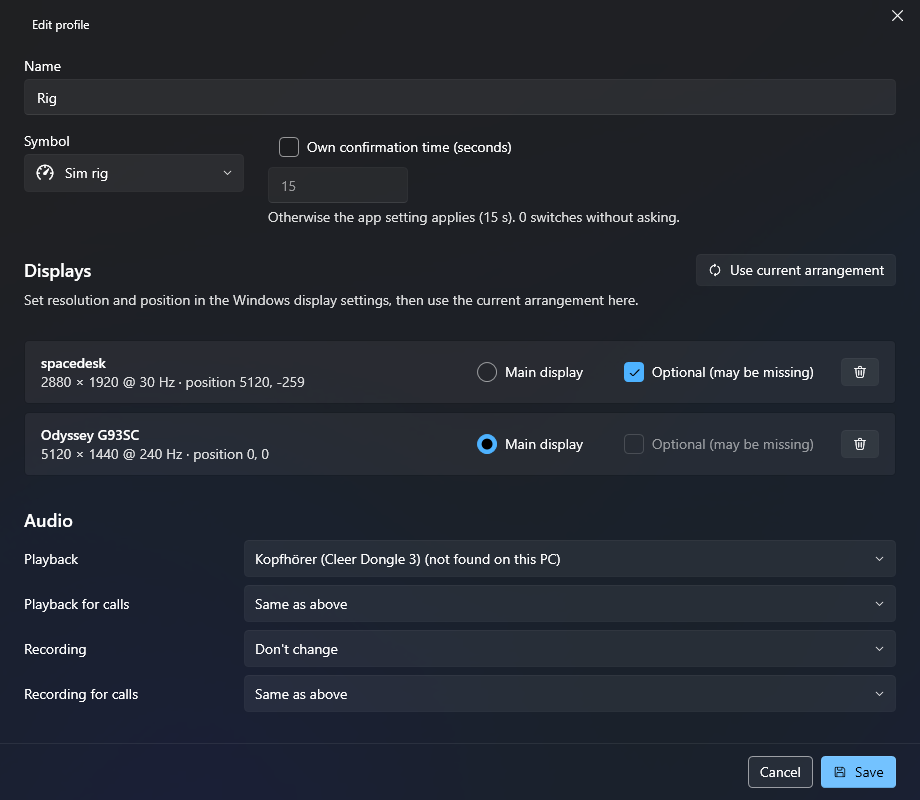
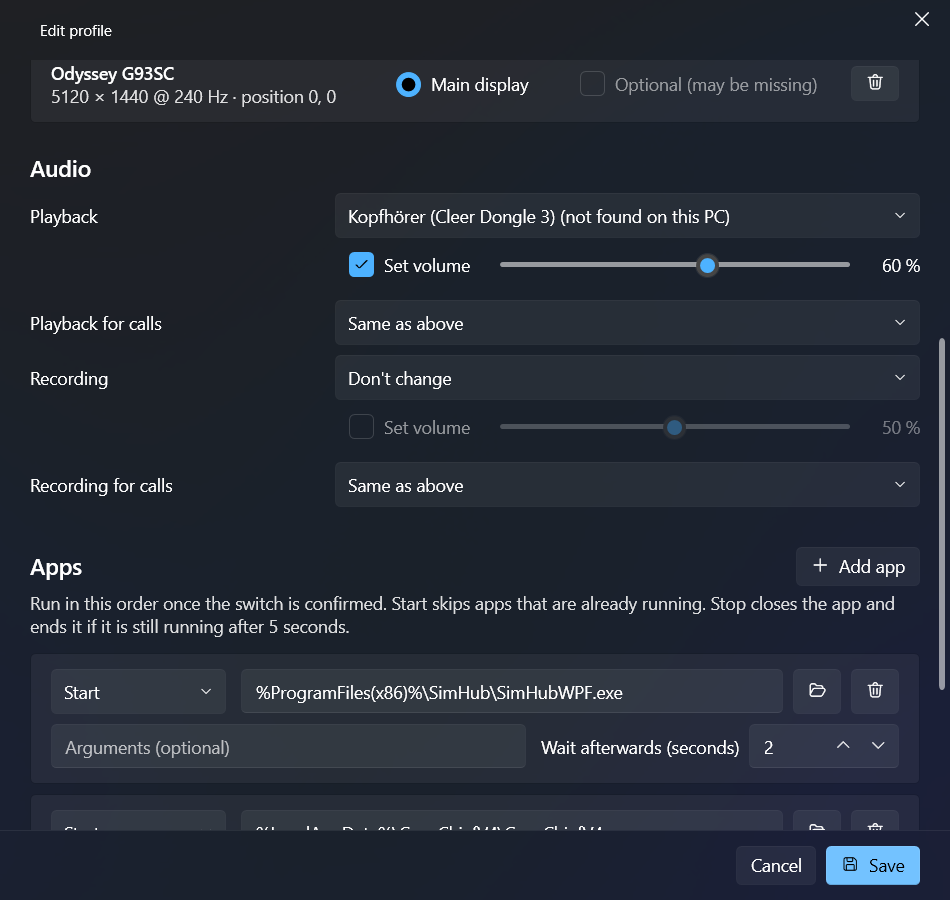
docs: prepare README, roadmap and editor screenshot for 1.3.0

diff --git a/README.md b/README.md
@@ -12,7 +12,7 @@
 display topology *and* audio devices atomically – built for sim racers who share one PC between a multi-monitor
 desk and an ultrawide / triple-screen / VR cockpit.
 
-> Status: **1.2** – tested on a real desk ↔ sim rig setup. [Download](https://github.com/ManuelStaggl/RigShift/releases/latest)
+> Status: **1.3** – tested on a real desk ↔ sim rig setup. [Download](https://github.com/ManuelStaggl/RigShift/releases/latest)
 > · [Roadmap](docs/ROADMAP.md)
 
 <p align="center">
@@ -37,7 +37,8 @@ Beyond that, RigShift is designed to be boring in the good way:
   yet; optional displays are picked up as soon as they appear.
 - **Safety net:** if you don't confirm the new layout within a few seconds (because there is no picture),
   RigShift rolls back to the previous one.
-- **Audio included:** default playback and communications devices per profile.
+- **Audio included:** playback, recording and communications devices plus volume per profile.
+- **Apps per profile:** start SimHub or Crew Chief and close Discord once the switch is confirmed.
 - **Explains problems** ("this combination exceeds your GPU's display heads") instead of showing error 31.
 - **Keyboard shortcut per profile**, e.g. Ctrl+Alt+F1, works from anywhere while RigShift runs.
 - **Scriptable:** `RigShift.exe apply Rig` or a `rigshift://apply/Rig` link from a Stream Deck, button box, SimHub
@@ -49,8 +50,8 @@ Beyond that, RigShift is designed to be boring in the good way:
 |---|---|
 | <img alt="Tray popup for switching profiles" src="docs/screenshots/tray-popup-dark.png" width="400"> | <img alt="Confirmation dialog with countdown" src="docs/screenshots/confirmation-dark.png" width="400"> |
 | **Tray popup** – switch profiles from the notification area. | **Safety net** – keep the new layout or it reverts on its own. |
-| <img alt="Profile editor with displays and audio devices" src="docs/screenshots/profile-editor-dark.png" width="400"> | <img alt="Settings page" src="docs/screenshots/settings-dark.png" width="400"> |
-| **Profile editor** – main display, optional displays, audio devices. | **Settings** – default profile, autostart, confirmation time, language. |
+| <img alt="Profile editor with audio devices, volume and apps" src="docs/screenshots/profile-editor-dark.png" width="400"> | <img alt="Settings page" src="docs/screenshots/settings-dark.png" width="400"> |
+| **Profile editor** – displays, audio devices with volume, apps to start or stop. | **Settings** – default profile, autostart, confirmation time, language. |
 
 ## Installation
 
@@ -69,8 +70,7 @@ Profiles, settings and logs are stored in `%AppData%\RigShift` and are kept when
 
 ## Planned features
 
-See [docs/ROADMAP.md](docs/ROADMAP.md). Highlights: microphone and volume per profile, per-profile apps,
-process and USB triggers with game templates (LMU, iRacing, ACC, AC EVO, …), race mode (no notifications,
+See [docs/ROADMAP.md](docs/ROADMAP.md). Highlights: process and USB triggers with game templates (LMU, iRacing, ACC, AC EVO, …), race mode (no notifications,
 no sleep), power plan, HDR, local HTTP API and Home Assistant integration.
 
 ## Command line

diff --git a/docs/ROADMAP.md b/docs/ROADMAP.md
@@ -19,8 +19,8 @@ Status legend: 🟢 released · 🟡 built, hardware test pending · ⚪ planned
 - 🟢 Global hotkeys per profile (1.2.0)
 - 🟢 `rigshift://apply/<name>` URI scheme (1.2.0)
 - 🟢 Recording device and separate communications role per profile (1.0)
-- 🟡 Volume per profile (playback and recording)
-- 🟡 Launch / stop apps per profile (SimHub, Crew Chief, …)
+- 🟢 Volume per profile (playback and recording) (1.3.0)
+- 🟢 Launch / stop apps per profile (SimHub, Crew Chief, …) (1.3.0)
 - ⚪ Process triggers with game templates (LMU, iRacing, ACC, AC EVO, rFactor 2, AMS2, F1)
 
 ## v1.2 – automation and comfort
